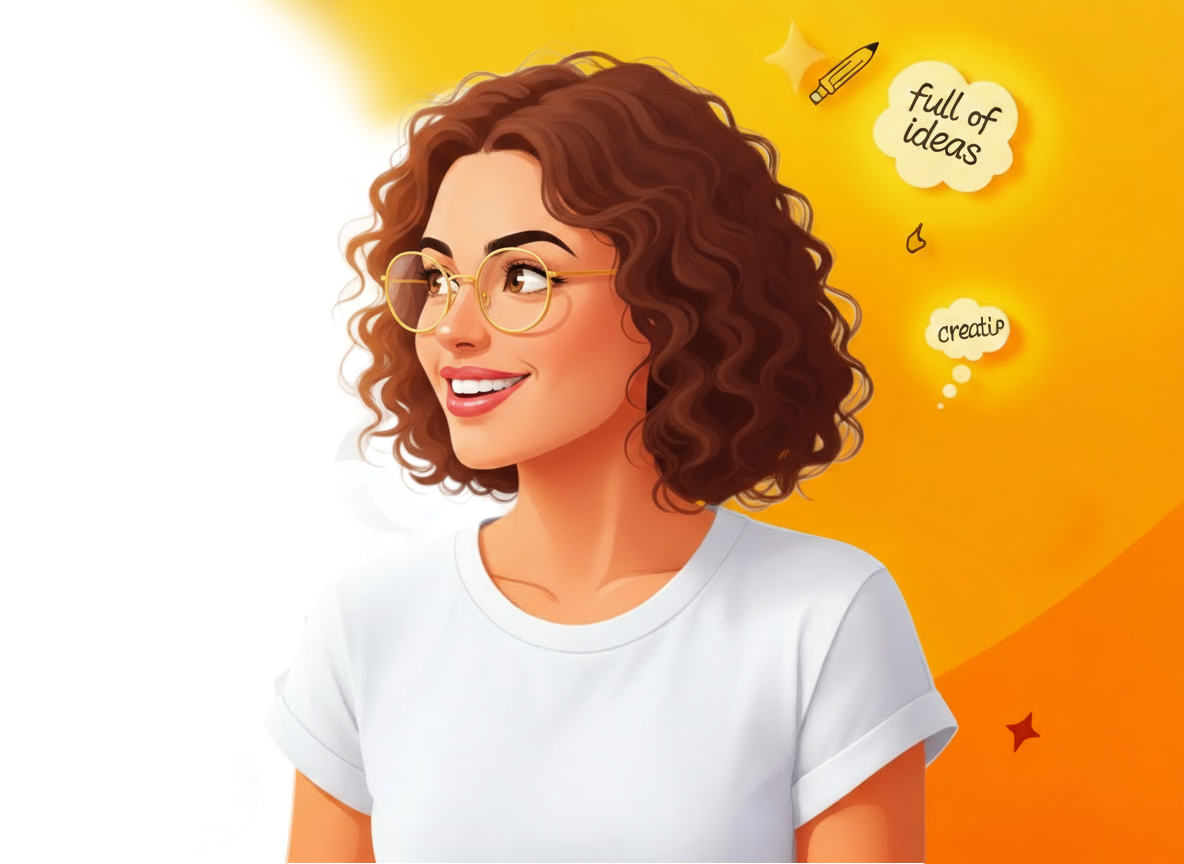
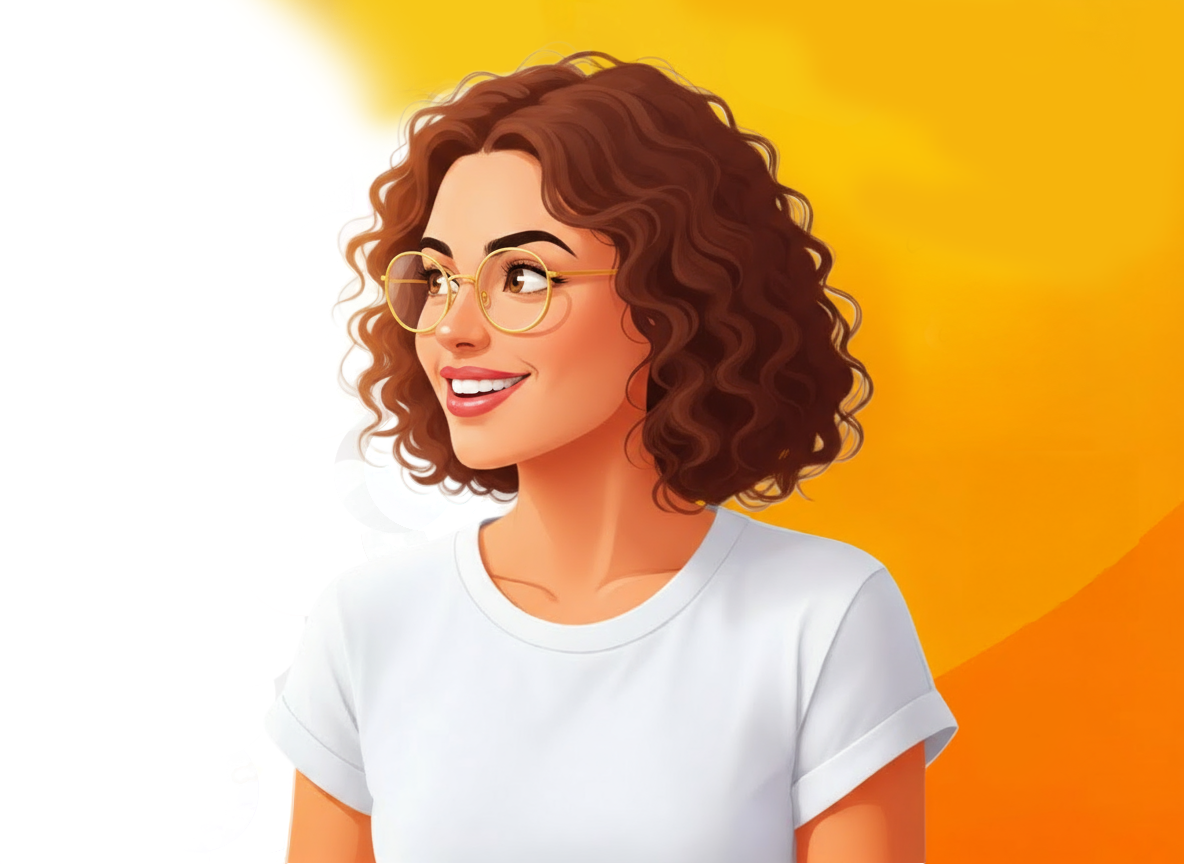
intro

Changed region(s): [[0.625, 0.0312, 0.875, 0.3125], [0.7812, 0.3125, 0.875, 0.4688], [0.8438, 0.8125, 0.875, 0.875]]

diff --git a/assets/css/style.css b/assets/css/style.css
@@ -491,6 +491,11 @@ h6 {
 .box-intro .table-cell {
     display: table-cell;
     vertical-align: middle;
+    
+}
+
+.box-intro .container {
+    padding-left: 5px;   /* Move text to the left */
 }
 
 .box-intro em {
@@ -501,14 +506,17 @@ h6 {
 .box-intro b i:last-child {
     color: #f7931e !important;
 }
+ /* colour of the dot */
 
 .box-intro h1 {
     margin: 15px 0px;
-    font-size: 1.9em;
+    font-size: 2em;
     color: #2c2854;
     font-weight: 700;
     text-transform: none;
 }
+ /* Hello txt */
+
 
 .box-intro h2 {
     margin: 15px 0px;
@@ -516,13 +524,16 @@ h6 {
     color: #f7931e;
     font-weight: 700;
 }
+ /* txt - I'm Victoria  */
+
 
 .box-intro h3 {
     margin: 25px 0px;
-    font-size: 0.8em;
+    font-size: 1em;
     color: #665266;
-    font-weight: 700;
+    font-weight: 600;
 }
+ /* txt - MBA AI.... */
 
 .box-intro h5 {
     letter-spacing: 4px;
@@ -530,25 +541,27 @@ h6 {
     color: #999;
     line-height: 1.2;
     font-size: 0.71em;
-    font-weight: 500;
+    font-weight: 400;
     margin-bottom: 8px;
     margin-top: 8px;
     margin-left: 0px;
 }
+ /* txt - Passionate Designer - Crafting human Centered Experiances..... */
 
 .box-intro h1.box-headline {
     margin: 40px 0px;
-    font-size: 4em;
+    font-size: 3em;
 }
+/* txt - Rotation dynamic  */
 
 .box-intro h4 {
     margin-top: 35px;
     font-family: 'Great Vibes';
-    font-size: 1.60em;
+    font-size: 1.5em;
     color: #35357a;
 }
+/* txt - Get in Touch   */
 
-/* mouse effect */
 
 .mouse {
     position: absolute;
@@ -562,7 +575,7 @@ h6 {
     -webkit-animation: intro 1s;
     animation: intro 1s;
 }
-
+/* mouse effect */
 .scroll {
     display: block;
     width: 3px;

diff --git a/_includes/intro.html b/_includes/intro.html
@@ -9,8 +9,7 @@
               <h5 class="text-align-left">Crafting Human-Centered Experiences</h5>
               <h5 class="text-align-left">Design Thinking & Visual Storytelling.</h5> 
           
-            <h3 class="text-align-left">MBA AI + MA. IXD DESIGN</h3>
-            <h3 class="text-align-left">B. DESIGN ARCHITECTURE + F. ARTS</h3>
+            <h3 class="text-align-left">MBA AI + MA. IXD DESIGN <br> B. DESIGN ARCHITECTURE + F. ARTS</h3>
 
              <h1 class="box-headline letters rotate-2">
                 <span class="box-words-wrapper">
